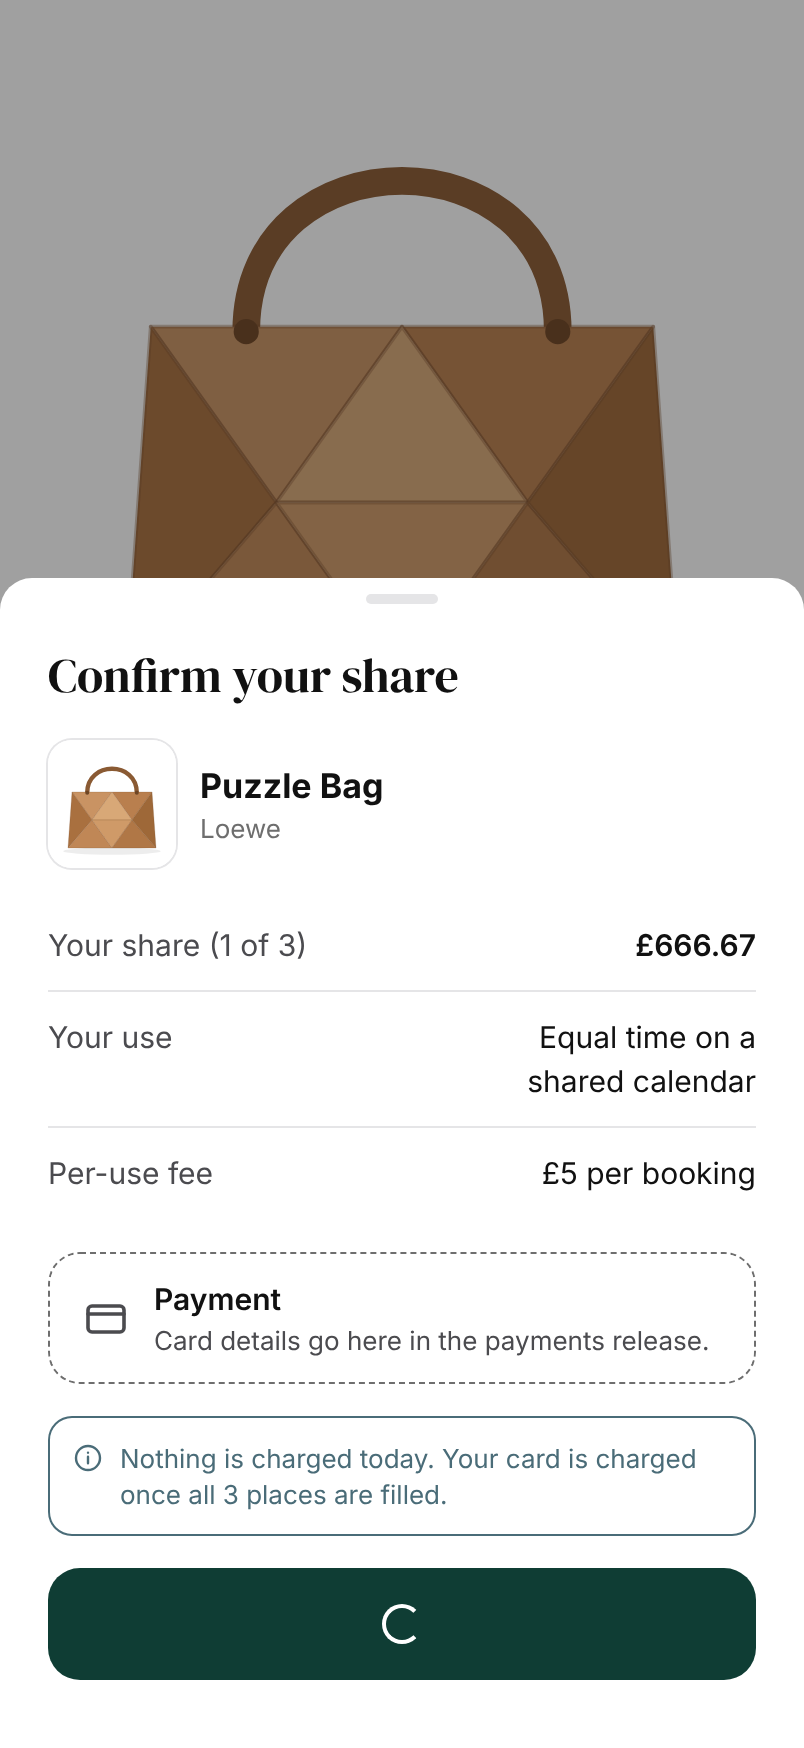
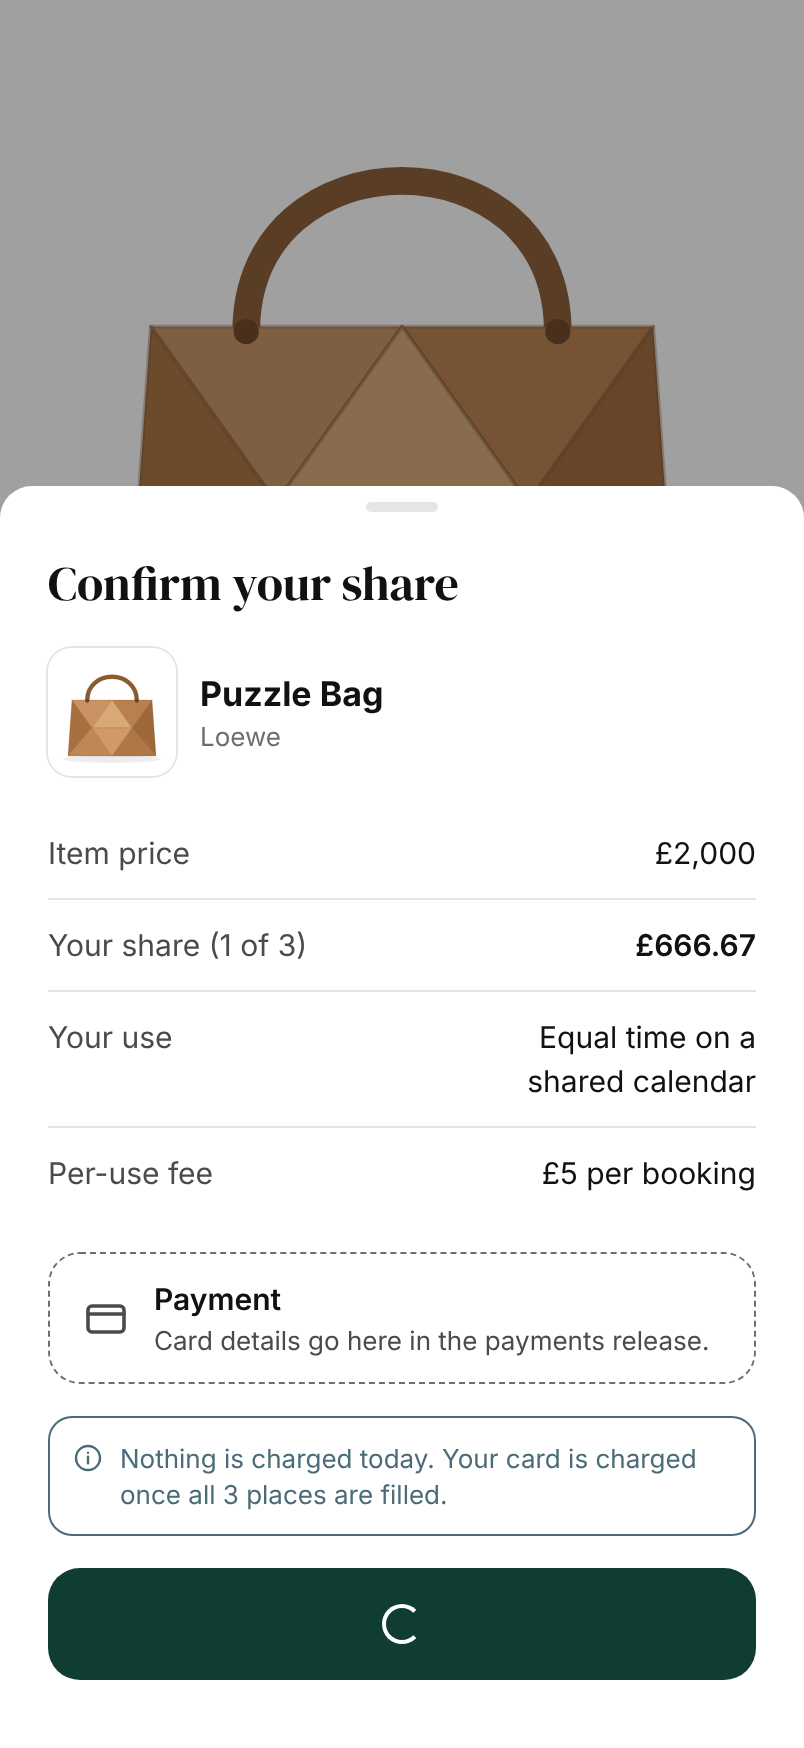
docs(plan-4): show the item price alongside the share price
Agreed in review: wherever the total appears it reads "Item price
£2,000", never "RRP" (the creator enters it unchecked, and an RRP label
implies a reference-price claim under CMA and ASA rules).

- Decisions: new "Item price" row.
- Task 2: Discover cards gain "Item price £2,000" under the share price.
- Task 4: the detail line replaces "£2,000 item, split between 3 owners".
- Task 5: the buy sheet's first fact row is "Item price".
- Screenshots 01, 05-08, 10-12, 20 and 23 re-exported.

Claude-Session: https://claude.ai/code/session_011C51ZTw1UKT1v3BrvBzYU2

Changed region(s): [[0.0, 0.278, 1.0, 0.4943], [0.8085, 0.4634, 0.9328, 0.4943]]

diff --git a/plans/2026-11-08-plan-4-screens-to-mockups.md b/plans/2026-11-08-plan-4-screens-to-mockups.md
@@ -25,6 +25,7 @@ Made with the user while reviewing the mock-ups (2026-11-07 and 2026-11-08).
 | Size badge | A new, larger size badge: a yellow strip attached under the thumbnail on Discover cards (never laid over the photo, which real products fill), and beside the name on the detail screen (Task 1) |
 | Ownership card | `OursOwnershipCard` as merged in `coterie-design` #8: share ring, one status line in words, co-owner avatars, no badges, no money |
 | Badges | Status in words; a badge only asks for action or flags a problem. The detail screen keeps its "Full" and "Your share" badges as mocked |
+| Item price | Shown as "Item price £2,000" wherever the total appears: Discover cards, detail, buy sheet, review. Never "RRP": the creator types it unchecked, and an RRP label implies a reference price (CMA and ASA rules) |
 | Payment | Not built. Every place payment will go shows the dashed placeholder box (Task 5) |
 | Dark mode | None. The app stays locked to light |
 
@@ -84,7 +85,7 @@ public enum OursChipSize: Sendable { case regular, large, tile }
 **Changes from plan 3, Task 9:**
 - **Header:** title "Discover" (`h1`, `forest`) as before, now with a subtitle under it in `body` `slate`: "Co-own a bag or a pair of shoes with up to three other people." Shown in every state except failed.
 - **Card:** keep `OursProductCard`'s layout (112pt photo left, brand, serif name, price), with these changes:
-  - Price reads `£666.67` in `body-lg-strong` `forest`, followed by "per share" in `body-sm` `slate`.
+  - Price reads `£666.67` in `body-lg-strong` `forest`, followed by "per share" in `body-sm` `slate`. Under it, in `body-sm` `stone`: "Item price £2,000" (`targetAmount`, formatted without pence when whole).
   - The size badge moves off the footer and **under the photo**: a 112pt-wide column of the photo then `OursSizeBadge(size, emphasis: .strip)`, clipped together to one `radiusSm` tile with a 1pt `mist` hairline, so photo and strip read as one piece. It never overlaps the photo. Shoe cards are about 32pt taller than bag cards; that's expected. Bags show none.
   - The footer is one row and a bar: "N of M filled" (`body-sm` `slate`) on the left, `OursAvatarGroup(people:, showsOpenPlace: !isFull)` on the right, then the 8pt funding track full width underneath. Build it with `OursFundingBar`'s track and the label row above it.
 - **End of list:** after the last card, centred, `body-sm` `stone`: "That's every coterie open right now." Only when the list has loaded and isn't empty.
@@ -154,7 +155,7 @@ extension Pool {
 2. Thumbnail row if there's more than one photo: 64pt, `radiusSm`, 8pt apart. The selected one has a 2pt `forest` ring, the others a `mist` hairline. Tapping switches the hero.
 3. `brand` in `body-sm` `stone`, then `itemName` in `h1`. For "Full", the "Full" (`success`) badge sits right-aligned on the brand row; for an owner, "Your share" (`feature`).
 4. Shoes only: `OursSizeBadge(size, emphasis: .detail)` with "Every owner wears this size. Only join if it's yours." beside it in `body-sm` `slate`.
-5. `pricePerShare` in `h3` `forest`, then "per share" in `body` `slate`. Under it, in `body-sm` `stone`: "£2,000 item, split between 3 owners" (`targetAmount`, `ownerCount`).
+5. `pricePerShare` in `h3` `forest`, then "per share" in `body` `slate`. Under it, in `body-sm` `stone`: "Item price £2,000" (`targetAmount`).
 6. Funding: "N of M filled" (`body-sm` `slate`) and the track.
 7. **Co-owners** (`body-lg-strong`): one row per owner, a 32pt avatar and their `displayName` (`body`). The creator (`creatorID`) also gets "Started this coterie" in `body-sm` `stone`. Then one row per open place: the open-place avatar and "Open place" in `body` `stone`. Under the rows: a `checkmark.shield` icon in `forest` and "Everyone in a coterie has verified their identity." (`body-sm` `slate`).
 8. **About this item** (`body-lg-strong`) and `description` in `body` `slate`, if not blank.
@@ -190,7 +191,7 @@ extension Pool {
 **Screenshots:** 10 (confirm), 11 (working), 12 (failed), 13 (you're in), 14 (took the last place).
 
 **Buy sheet (changes from plan 3, Task 10):**
-- Keep the title, the item row (64pt photo, name, brand, size badge), and the fact rows.
+- Keep the title, the item row (64pt photo, name, brand, size badge), and the fact rows, adding **"Item price"** (`targetAmount`) as the first row, above "Your share (1 of N)".
 - **New: payment placeholder** before the banner. A box with a 1.5pt dashed `stone` border, `radiusMd`, white, a `creditcard` symbol, "Payment" (`body`, semibold) and "Card details go here in the payments release." (`body-sm` `slate`). Make it its own view, `PaymentPlaceholder(message:)`. The payments plan replaces it.
 - Info banner copy: "Nothing is charged today. Your card is charged once all N places are filled."
 - **Failed:** `actionError` shows as an error banner in place of the info banner. Copy for a network failure: "We couldn't add you to this coterie. Nothing was charged. Check your connection and try again." The primary becomes "Try again", running the same `buy()`.
